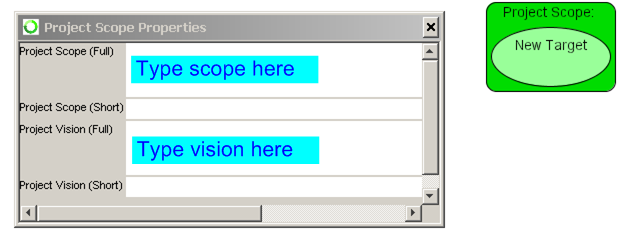
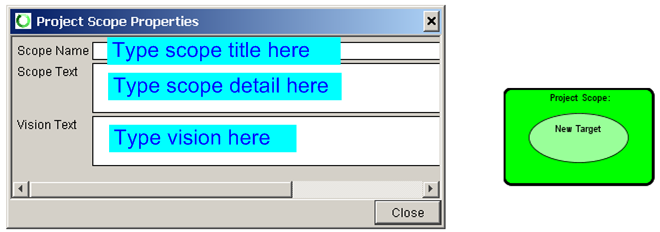
Replace wizard images with new ones from Nick

diff --git a/source/org/conservationmeasures/eam/wizard/diagram/DiagramWizardVisionStepLeft.html b/source/org/conservationmeasures/eam/wizard/diagram/DiagramWizardVisionStepLeft.html
@@ -10,7 +10,7 @@ Double click on the green Project Scope box to either review the
  you entered earlier or enter a new vision statement. 
 </p>
 <br></br>
-<img src='images/DiagramWizard/vision2.png' width='626' height='243'></img>
+<img src='images/DiagramWizard/vision2.png' width='660' height='232'></img>
 <p>
 Review the criteria for a good vision statement and revise your statement as necessary.
 </p>
